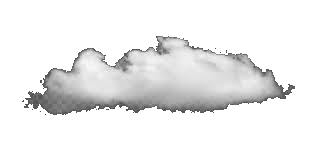
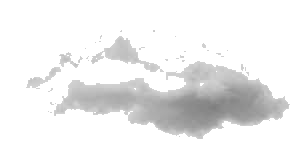
Use single transparent cloud PNG at 3 sizes

Changed region(s): [[0.0594, 0.2013, 0.9802, 0.8553], [0.6832, 0.4025, 0.7129, 0.4277], [0.505, 0.1761, 0.5347, 0.2013]]

diff --git a/index.html b/index.html
@@ -519,15 +519,15 @@
     <div class="sun-rays-ring" id="sunRays"></div>
   </div>
 
-  <!-- Clouds — transparent PNGs -->
+  <!-- Clouds — same transparent PNG, varied sizes -->
   <div class="cloud" style="top:62px;left:5%;">
-    <img src="Cloud_1.png" alt="" width="200"/>
+    <img src="Cloud_1.png" alt="" width="210"/>
   </div>
-  <div class="cloud" style="top:75px;left:30%;">
-    <img src="Cloud_2.png" alt="" width="160"/>
+  <div class="cloud" style="top:78px;left:30%;">
+    <img src="Cloud_1.png" alt="" width="155" style="opacity:.85;"/>
   </div>
   <div class="cloud" style="top:66px;left:54%;">
-    <img src="Cloud_3.png" alt="" width="130"/>
+    <img src="Cloud_1.png" alt="" width="118" style="opacity:.7;"/>
   </div>
   <!-- Seagulls -->
   <svg class="gull" style="top:118px;animation:cloudDrift 28s linear infinite;animation-delay:-6s;" width="44" height="20" viewBox="0 0 44 20">
